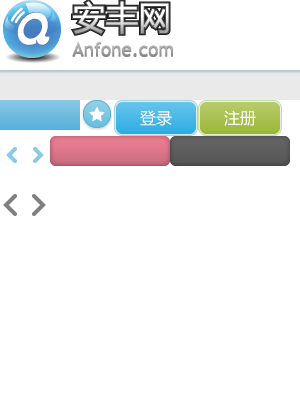
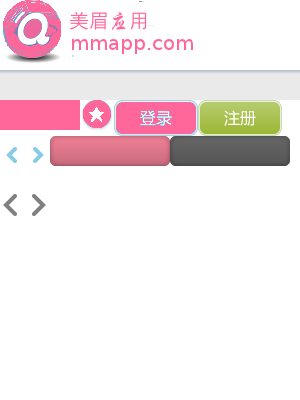
change style to pink

Changed region(s): [[0.0, 0.0, 0.66, 0.15], [0.0, 0.24, 0.66, 0.36]]

diff --git a/public/css/main.css b/public/css/main.css
@@ -25,7 +25,7 @@ a, a:active, .nav_new a:hover, .subnav a:hover{text-decoration:none;}/*UNDERLINE
 .nav_new li, .nav_new .splitline {background:url(/images/splitline.png) right no-repeat;}
 .nav-bgd{-webkit-box-shadow:rgba(0,0,0,0.3) 0 1px 3px;-moz-box-shadow:rgba(0,0,0,0.3) 0 1px 3px;box-shadow:rgba(0,0,0,0.3) 0 1px 3px;filter:progid:DXImageTransform.Microsoft.DropShadow(color='#C6C6C6',offX='0',offY='2');/*for ie6,7,8*/}/*SHADOW*/
 .column-w, .column-lw, .column-l, .column-r, .column-m, .rounded, .links-box, .brief .comment, .brief .down, .pagebar li a, .brief .vote, .brief .vote .text, .brief .vote .btn{background:#fff;border:solid #ddd 1px;border-radius:6px;-webkit-border-radius:6px; -moz-border-radius:6px; -o-border-radius:6px; -khtml-border-radius:6px;}/* ROUNDED */
-.header-bgd, .logo, .search-top-box, .top-login-box{height:117px;}
+.header-bgd, .logo, .search-top-box, .top-login-box{height:80px;}
 .logo a, .arrow-left, .arrow-right, .nav_new .splitline, .brief .down .btn, .brief .screen .l, .brief .screen .r {text-indent:-9876px;} 
 .hotw-index h1, .hotw-index li em, .hotw-index li p, .hotw-index li h6, .hotw-index .tabbox a, .footer li{display:inline-block;*zoom:1;*display:inline;}/*INLINE-BLOCK*/
 
@@ -36,15 +36,15 @@ a, a:active, .nav_new a:hover, .subnav a:hover{text-decoration:none;}/*UNDERLINE
 .marginb10{margin-bottom:10px;}
 	
 /*HEADER -------------------------------*/
-.header-bgd{background:url(../images/bgd_header.png);margin:0 auto;}
-.header{background:url(../images/bgd_header.png);position:relative;}
+.header-bgd{background:url(/images/bgd_header.png);margin:0 auto;}
+.header{background:url(/images/bgd_header.png);position:relative;}
 
 .logo {width:300px;float:left;}
-.logo a{width:195px;height:64px;margin-top:30px;background-position:0px 0px;}
+.logo a{width:195px;height:64px;margin-top:8px;background-position:0px 0px;}
 
 .search-top-box {width:390px;float:left;}
 .search-top-box p, .search-top-box p a{color:#999;text-align:center;}
-.search-top {background:#000;padding:4px;float:left;margin-top:35px;}
+.search-top {background:transparent;padding:4px;float:left;margin-top:35px;}
 .search-top .textarea{clear:both;float:left;width:300px;height:30px;line-height:30px;background-position:0 -70px;}
 .search-top .search{color:#fff;font-weight:700;width:80px;height:30px;background-position:0 -100px;cursor:pointer;}
 
@@ -55,14 +55,14 @@ a, a:active, .nav_new a:hover, .subnav a:hover{text-decoration:none;}/*UNDERLINE
 .top-login a, .top-login a:active{color:#777;margin-left:10px;}
 
 /*NAVIGATION ----------------------------*/
-.nav-bgd {height:40px;background:url(/images/nav_bg.png);margin-bottom:5px;}
+.nav-bgd {height:40px;background:url(/images/nav_bgd.png);margin-bottom:5px;}
 .nav-box {overflow:hidden;}
 
 .nav_new {font-size:16px;line-height:39px;}
-.nav_new li {text-align:center;float:left;padding:0 30px;line-height:38px;}
+.nav_new li {text-align:center;float:left;padding:0 30px;line-height:40px;}
 .nav_new a{color:#fff;}
-.nav_new li:hover{background:url(/images/nav_bg.png) 0px -36px;}
-.nav_new .current{background:url(/images/nav_bg.png) 0px -72px;}
+.nav_new li:hover{background:url(/images/nav_bgd1.png)}
+.nav_new .current{background:url(/images/nav_bgd2.png)}
 .nav_new .splitline{width:2px;height:40px;float:left;}
 
 .subnav{font-size:12px;right:10px;float:right;}

diff --git a/application/controllers/SearchController.php b/application/controllers/SearchController.php
@@ -1,0 +1,21 @@
+<?php
+
+class SearchController extends Zend_Controller_Action
+{
+
+    public function init()
+    {
+        /* Initialize action controller here */
+    }
+
+    public function indexAction()
+    {
+    	$keywords = $this->_request->getParam('keywords');
+    	
+    	$apps = new Application_Model_DbTable_Apps();
+    	$results = $apps->search($keywords);
+
+    	var_dump($results);
+
+    }
+}

diff --git a/application/models/DbTable/Apps.php b/application/models/DbTable/Apps.php
@@ -48,5 +48,12 @@ class Application_Model_DbTable_Apps extends Zend_Db_Table_Abstract
         return $this->insert($app);
     }
 
+    public function search($name)
+    {
+        $select = $this->select()
+                ->where("name like '%?%'", $name);
+        return $this->fetchAll($select);           
+    }
+
 }
 

diff --git a/application/Bootstrap.php b/application/Bootstrap.php
@@ -66,7 +66,6 @@ class Bootstrap extends Zend_Application_Bootstrap_Bootstrap
                   					array('controller' => 'download',
                   							'action' => 'index')));
 
-
         // admin
 		$router->addRoute('app_add',
                   new Zend_Controller_Router_Route('admin/app/add', 

diff --git a/application/controllers/AppController.php b/application/controllers/AppController.php
@@ -10,6 +10,7 @@ class AppController extends Zend_Controller_Action
 
     public function showAction()
     {
+        $this->view->type_name = $this->_request->getParam('type_name');
     	$id = $this->_request->getParam('id');
         
         $apps = new Application_Model_DbTable_Apps();
